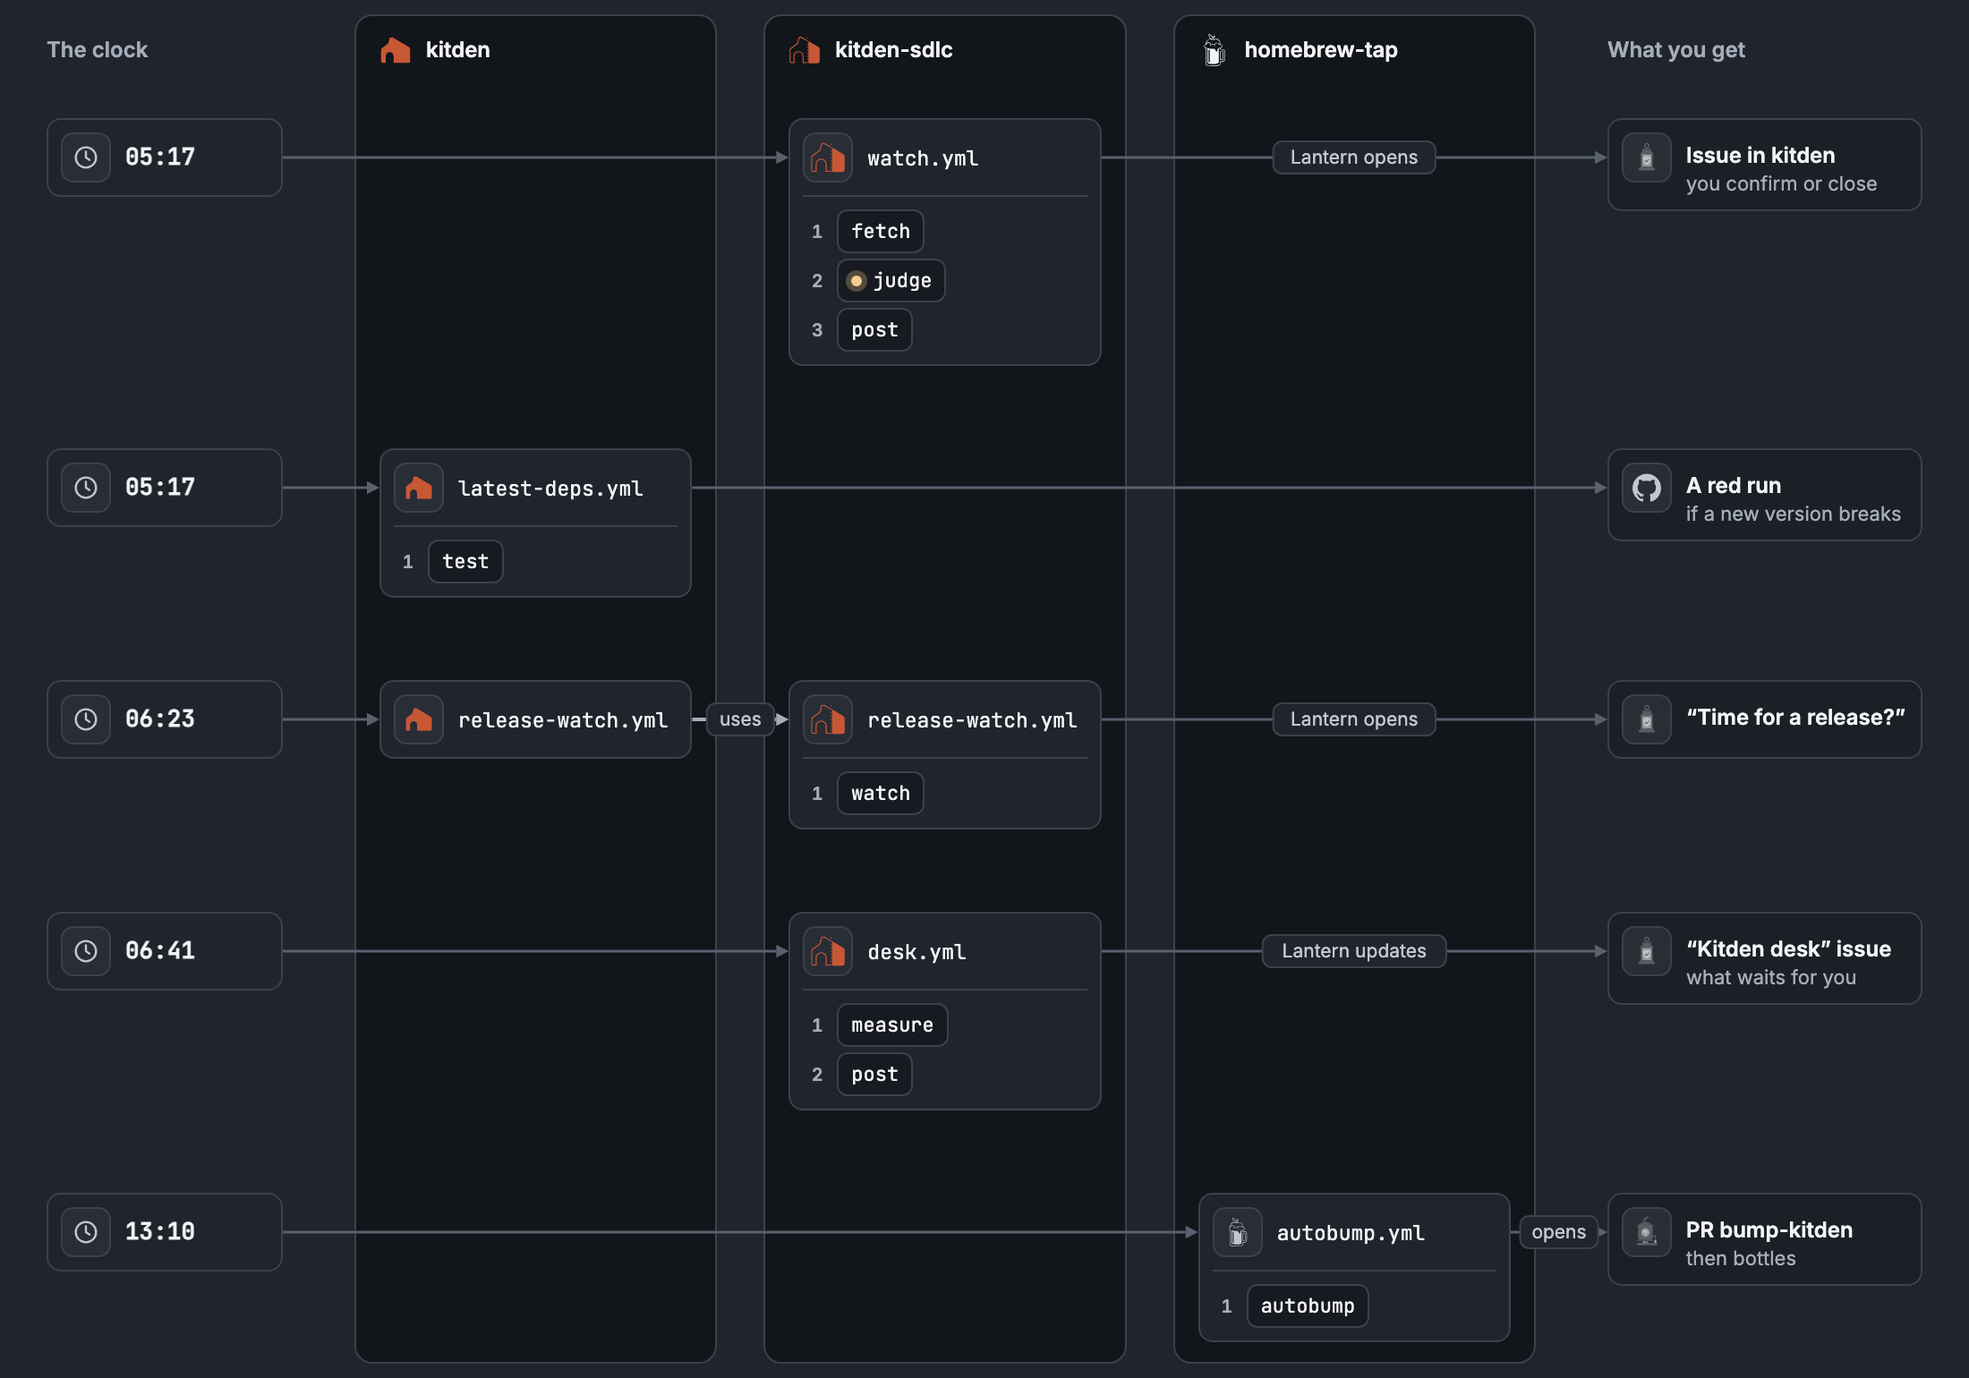
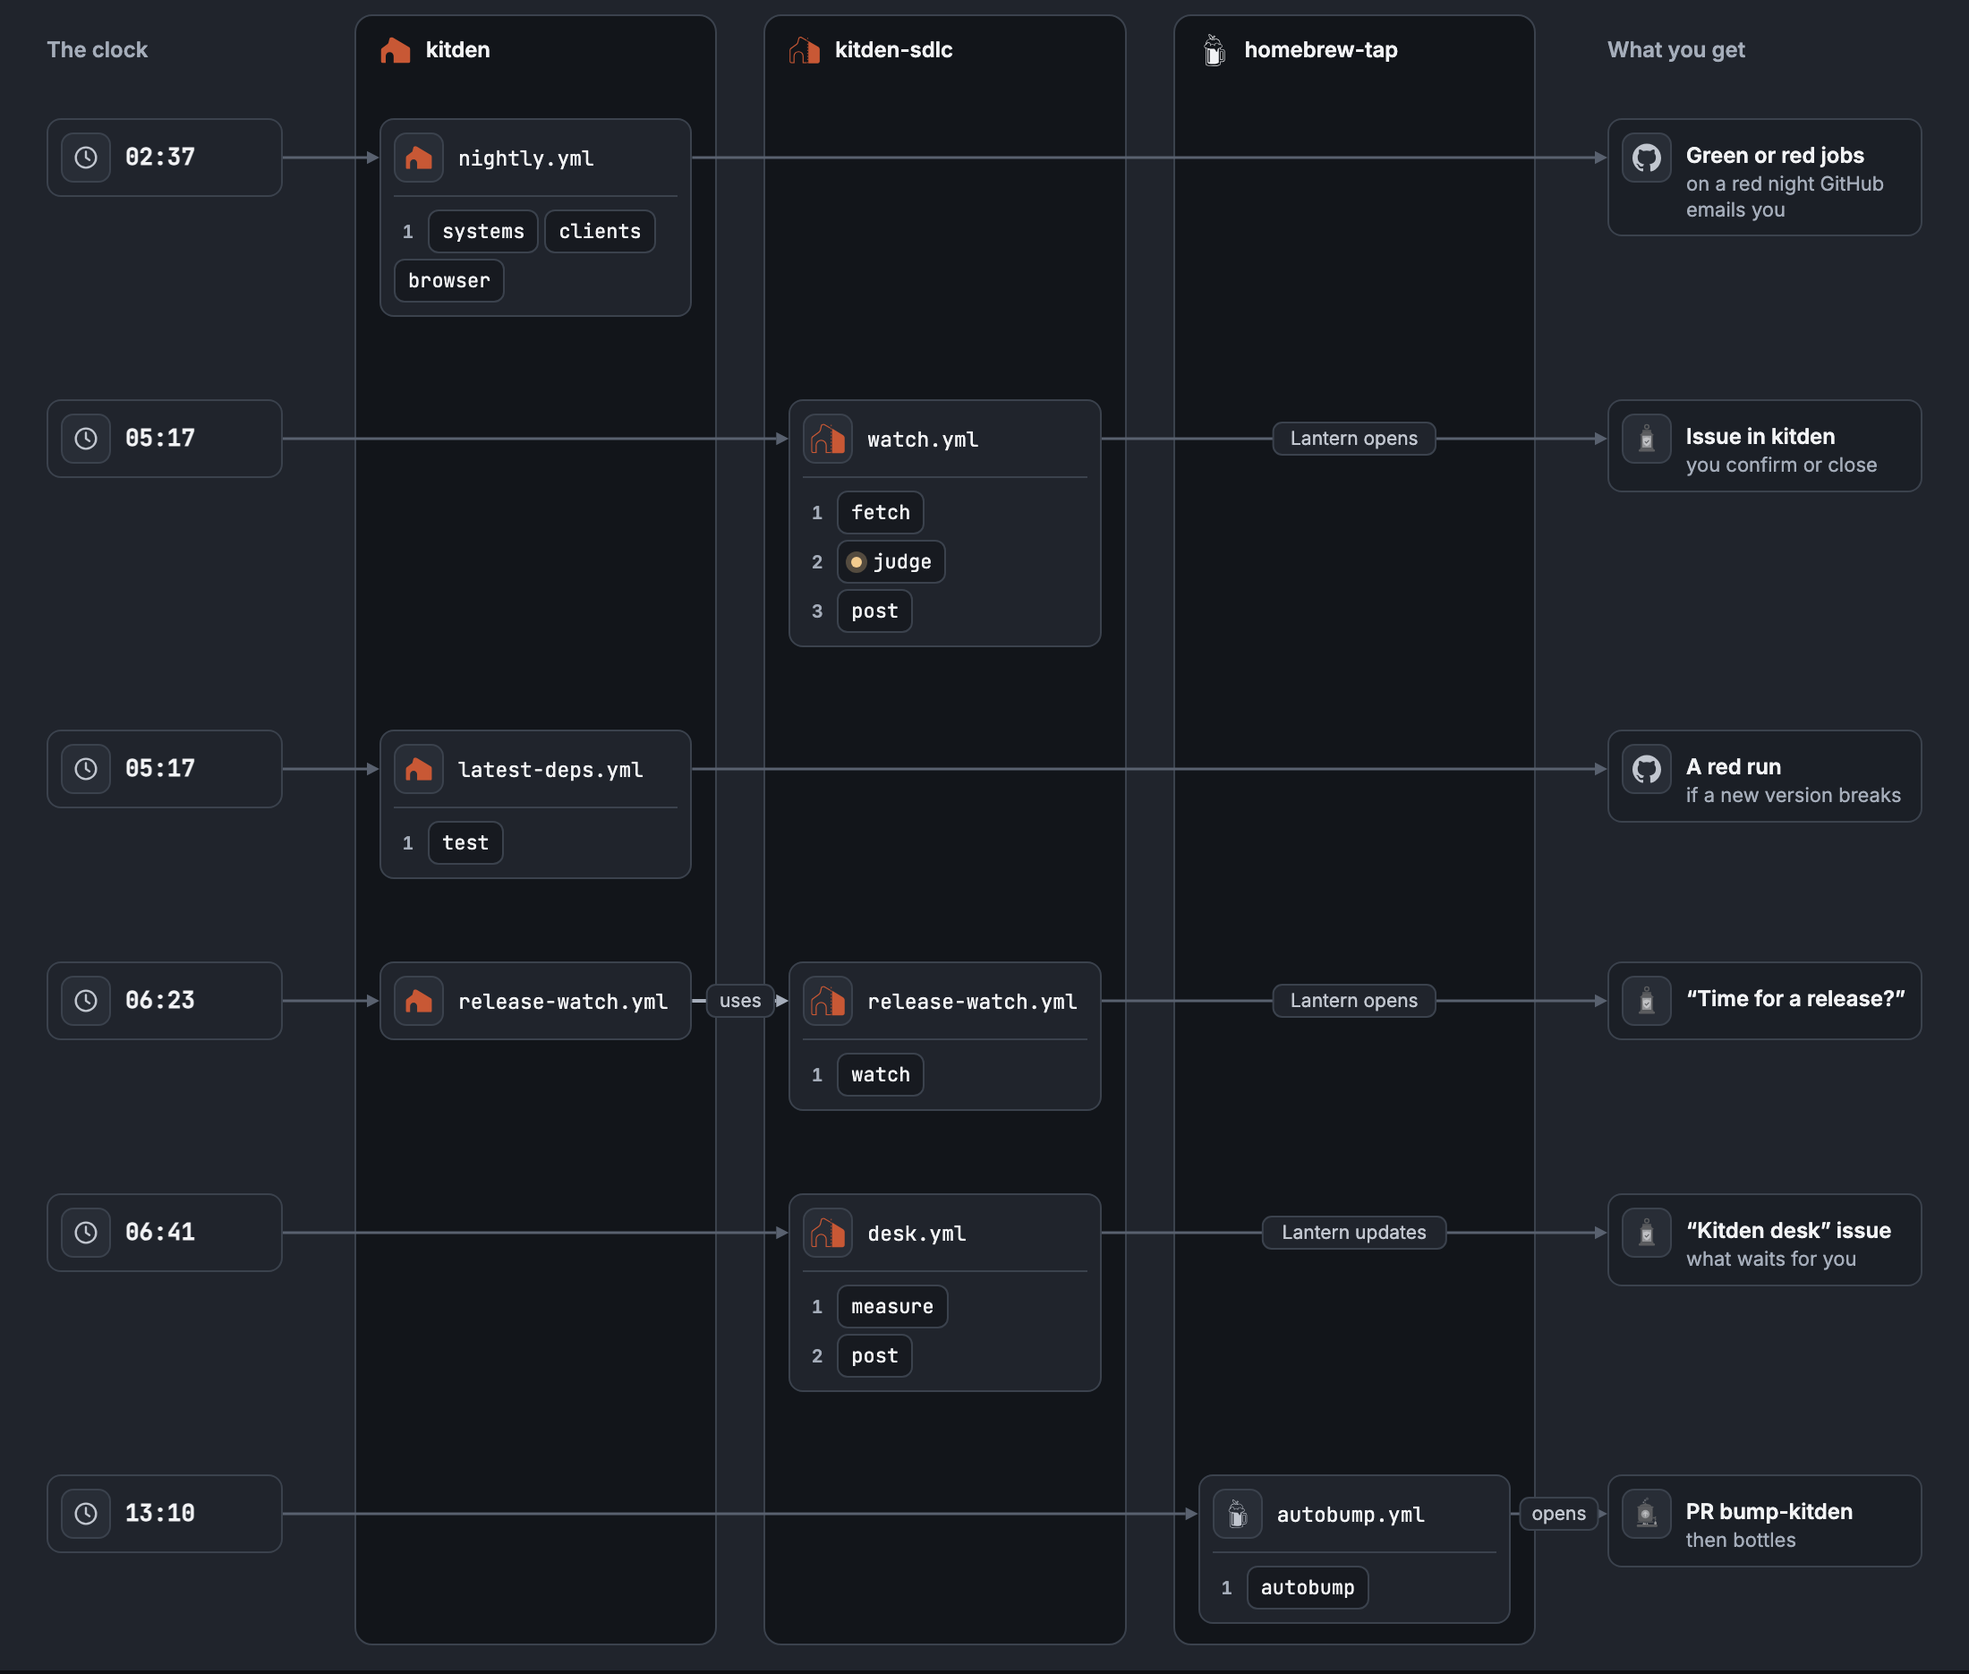
Show the nightly tests on the map

diff --git a/docs/map/index.html b/docs/map/index.html
@@ -400,6 +400,8 @@ const REPO = {
   t:{name:'homebrew-tap', url:'https://github.com/konstantinstarovoytov/homebrew-tap'}
 };
 const SONNET = 'Claude Sonnet 5.5';
+/* Links between workflows, each with its other end: calls and calledBy when one uses the other,
+   reads and readBy when one reads the other's runs without calling it. */
 const WF = [
  {id:'k-release', r:'k', file:'release.yml', kind:'own + call',
   trigger:'Push to `main`, a `v*` tag, any pull request',
@@ -444,11 +446,12 @@ const WF = [
   trigger:'Every night, 02:37 UTC',
   stages:[['systems','clients','browser']],
   jobs:[
-   {n:'systems', tags:['4 systems','Python 3.13 + 3.14'], when:'always',
-    steps:['Install','Tests: `pytest`','Real keyring (Ubuntu), real Keychain (macOS)','Page tests in Node','Start-up speed','Tests set aside']},
-   {n:'clients', tags:['macOS + Ubuntu','no account'], when:'always',
-    steps:['Install the newest Claude Code and Codex','Contract tests','On a red night: keep the files they wrote']},
-   {n:'browser', tags:['Ubuntu'], when:'always', steps:['Install Chromium','Browser tests in Playwright']}
+   {n:'systems', tags:['macOS ARM + Intel','Ubuntu x64 + ARM','Python 3.13 + 3.14','no secret'], when:'always: 8 runs, one per system and Python',
+    steps:['Install, on the Python of this run','Tests: `pytest`','The real keyring (Ubuntu)','The real Keychain (macOS)','Page tests in Node','Start-up within its time budgets: twice the budgets on the Intel Mac','Tests set aside: never red']},
+   {n:'clients', tags:['macOS + Ubuntu','no account','no secret'], when:'always',
+    steps:['Install','No account on the runner','Install the newest Claude Code and Codex','Which versions','Contract tests against them','On a red night: keep the files the clients wrote']},
+   {n:'browser', tags:['Ubuntu','Playwright','no secret'], when:'always',
+    steps:['Install','Install Chromium with Playwright','Browser tests: the page on the demo sample, in Chromium']}
   ]},
  {id:'k-scenes', r:'k', file:'scenes.yml', kind:'own',
   trigger:'A pull request that changes `src/kitden`',
@@ -641,15 +644,16 @@ const STORIES = {
       ['pr','merge','waits for you','z'],['merge','rel1','push','h'],['rel1','tag','Beacon tags','h'],
       ['tag','rel2','the tag starts it again','z'],['rel2','s-publish','uses','h'],['s-publish','bump','opens','h'],
       ['bump','t-tests','starts','z'],['t-tests','t-auto-pull','tests pass','z'],['t-auto-pull','t-publish','starts','z'],['t-publish','brew','','h']]},
-  day:{note:'Times are UTC. Nothing here needs you until an issue or a PR shows up.',
+  day:{note:'Times are UTC. Nothing here needs you until an issue, a pull request or a red run shows up.',
     rows:[
+      [{id:'c0', kind:'clock', t:'02:37'}, {wf:'k-nightly'}, {id:'d0', kind:'thing', ic:'github', t:'Green or red jobs', sub:'on a red night GitHub emails you'}],
       [{id:'c1', kind:'clock', t:'05:17'}, {wf:'s-watch', stages:[['fetch'],['judge'],['post']]}, {id:'d1', kind:'thing', ic:'lantern', t:'Issue in kitden', sub:'you confirm or close'}],
       [{id:'c2', kind:'clock', t:'05:17'}, {wf:'k-latest-deps'}, {id:'d2', kind:'thing', ic:'github', t:'A red run', sub:'if a new version breaks'}],
       [{id:'c3', kind:'clock', t:'06:23'}, {wf:'k-release-watch'}, {wf:'s-release-watch'}, {id:'d3', kind:'thing', ic:'lantern', t:'“Time for a release?”', go:'rel'}],
       [{id:'c4', kind:'clock', t:'06:41'}, {wf:'s-desk'}, {id:'d4', kind:'thing', ic:'lantern', t:'“Kitden desk” issue', sub:'what waits for you'}],
       [{id:'c5', kind:'clock', t:'13:10'}, {wf:'t-autobump'}, {id:'d5', kind:'thing', ic:'kettle', t:'PR bump-kitden', sub:'then bottles', go:'rel'}]
     ],
-    edges:[['c1','s-watch','','h'],['s-watch','d1','Lantern opens','h'],['c2','k-latest-deps','','h'],['k-latest-deps','d2','','h'],
+    edges:[['c0','k-nightly','','h'],['k-nightly','d0','','h'],['c1','s-watch','','h'],['s-watch','d1','Lantern opens','h'],['c2','k-latest-deps','','h'],['k-latest-deps','d2','','h'],
       ['c3','k-release-watch','','h'],['k-release-watch','s-release-watch','uses','h'],['s-release-watch','d3','Lantern opens','h'],
       ['c4','s-desk','','h'],['s-desk','d4','Lantern updates','h'],['c5','t-autobump','','h'],['t-autobump','d5','opens','h']]}
 };
@@ -761,14 +765,14 @@ if (window.ResizeObserver) new ResizeObserver(() => draw()).observe(flow);
 if (document.fonts && document.fonts.ready) document.fonts.ready.then(() => draw());
 
 /* ================= workflows ================= */
-const TAGIC = {Lantern:'lantern', Beacon:'beacon', Kettle:'kettle', 'calls kitden-sdlc':'githubactions', 'env: pypi':'pypi'};
+const TAGIC = {Lantern:'lantern', Beacon:'beacon', Kettle:'kettle', 'calls kitden-sdlc':'githubactions', 'env: pypi':'pypi', Playwright:'playwright'};
 function tag(t){
   if (t.startsWith('model:')) { const n = t.slice(6); return '<span class="chip">' + ico(n.startsWith('Claude') ? 'claude' : n.startsWith('GPT') ? 'openai' : 'you', 12) + esc(n) + '<i class="lamp model"></i></span>'; }
   if (t === 'harden') return '<span class="chip">' + ico('stepsecurity', 12) + 'Harden-Runner</span>';
   if (t === 'langfuse') return '<span class="chip">' + ico('langfuse', 12) + 'Langfuse</span>';
   return '<span class="chip">' + (TAGIC[t] ? ico(TAGIC[t], 12) : '') + esc(t) + '</span>';
 }
-const STEPIC = [[/Record hosts/,'stepsecurity'],[/Lantern/,'lantern'],[/Beacon/,'beacon'],[/Kettle/,'kettle'],[/Luna|no network/,'openai'],[/Claude|Model judges|no shell/,'claude'],
+const STEPIC = [[/Record hosts/,'stepsecurity'],[/Lantern/,'lantern'],[/Beacon/,'beacon'],[/Kettle/,'kettle'],[/Luna|no network/,'openai'],[/Claude|Model judges|no shell/,'claude'],[/Playwright|Chromium|Browser tests/,'playwright'],
   [/ruff/,'ruff'],[/zizmor/,'zizmor'],[/actionlint/,'lint'],[/pytest|[Tt]ests/,'pytest'],[/pyright/,'python'],[/PyPI|pip-audit/,'pypi'],[/MCP|server\.json/,'modelcontextprotocol'],
   [/brew|formula|bottle|the tap/,'homebrew'],[/Node/,'nodedotjs'],[/scene|picture/,'playwright'],[/uv sync|Install|package/,'uv'],[/Call /,'githubactions'],
   [/GitHub|pull request|PR|issue|comment|tag|branch|Commit|Push|`main`|diff/,'github'],[/Rule checker|secret/,'shield']];
@@ -790,7 +794,9 @@ function select(id){
   const jobBy = Object.fromEntries(w.jobs.map(j => [j.n, j]));
   const facts = '<div class="fact"><span class="cap">Starts when</span><span>' + fmt(w.trigger) + '</span></div>' +
     (w.calls ? '<div class="fact"><span class="cap">Calls</span><span>' + w.calls.map(ref).join(', ') + '</span></div>' : '') +
-    (w.calledBy ? '<div class="fact"><span class="cap">Called by</span><span>' + w.calledBy.map(ref).join(', ') + '</span></div>' : '');
+    (w.calledBy ? '<div class="fact"><span class="cap">Called by</span><span>' + w.calledBy.map(ref).join(', ') + '</span></div>' : '') +
+    (w.reads ? '<div class="fact"><span class="cap">Reads</span><span>' + w.reads.map(ref).join(', ') + '</span></div>' : '') +
+    (w.readBy ? '<div class="fact"><span class="cap">Read by</span><span>' + w.readBy.map(ref).join(', ') + '</span></div>' : '');
   $('detail').innerHTML = '<div class="top">' + repoChip(w.r) + '<span class="chip">' + esc(w.kind) + '</span>' + (w.model ? '<span class="chip"><i class="lamp model"></i>model</span>' : '') +
     '<a href="' + fileUrl(w) + '" style="margin-left:auto;font-size:12px">File</a><a href="' + runsUrl(w) + '" style="font-size:12px">Runs</a></div>' +
     '<h2>' + esc(w.file) + ' <span>· ' + esc(w.name) + '</span></h2>' +
@@ -821,7 +827,7 @@ const TOOLS = [
   ['Yours', [['kitden','Kitden','the product'],['sdlc','kitden-sdlc','the automation'],['lantern','Lantern','comments and issues'],['beacon','Beacon','releases'],['kettle','Kettle','the Homebrew tap']]],
   ['Models', [['claude','Claude Sonnet 5.5','review, watcher, release'],['openai','GPT-6 Luna','second reviewer']]],
   ['Checks', [['ruff','ruff','lint'],['python','pyright','types'],['pytest','pytest','tests'],['nodedotjs','Node','page tests'],['zizmor','zizmor','workflow security'],['lint','actionlint','workflow mistakes'],['pypi','pip-audit','known vulnerabilities']]],
-  ['Build and ship', [['githubactions','GitHub Actions','runs it all'],['uv','uv','install and build'],['python','Python','the code'],['pypi','PyPI','the package'],['github','GitHub Releases','files and notes'],['modelcontextprotocol','MCP Registry','the server list'],['homebrew','Homebrew','brew install'],['playwright','Playwright','README pictures'],['ffmpeg','ffmpeg','README pictures']]],
+  ['Build and ship', [['githubactions','GitHub Actions','runs it all'],['uv','uv','install and build'],['python','Python','the code'],['pypi','PyPI','the package'],['github','GitHub Releases','files and notes'],['modelcontextprotocol','MCP Registry','the server list'],['homebrew','Homebrew','brew install'],['playwright','Playwright','README pictures, browser tests'],['ffmpeg','ffmpeg','README pictures']]],
   ['Guards', [['stepsecurity','Harden-Runner','records hosts'],['langfuse','Langfuse','model traces']]],
   ['Clients watched', [['claude','Claude Code','by Anthropic'],['openai','Codex','by OpenAI'],['cursor','Cursor','by Anysphere']]]
 ];
@@ -835,7 +841,7 @@ const USED = {
   'PyPI':['k-release','s-publish','t-autobump'], 'GitHub Releases':['k-release'], 'MCP Registry':['s-publish'],
   'Homebrew':['s-publish','t-autobump','t-tests','t-auto-pull','t-publish'], 'Playwright':['k-scenes','k-nightly','s-release-prep'], 'ffmpeg':['k-scenes','s-release-prep'],
   'Harden-Runner':['s-review','s-watch','s-release-prep','s-list-check'], 'Langfuse':['s-watch'],
-  'Claude Code':['s-watch'], 'Codex':['s-watch'], 'Cursor':['s-watch']
+  'Claude Code':['s-watch','k-nightly'], 'Codex':['s-watch','k-nightly'], 'Cursor':['s-watch']
 };
 const usedIn = n => { const u = USED[n]; return '<span class="tip" role="tooltip"><span class="cap">Used in</span>' + (typeof u === 'string' ? '<span class="tl1">' + esc(u) + '</span>'
   : u.map(id => '<button type="button" class="tl1" data-id="' + id + '">' + ico(RLOGO[byId[id].r], 13) + esc(byId[id].file) + '</button>').join('')) + '</span>'; };
@@ -852,7 +858,9 @@ window.addEventListener('hashchange', fromHash);
 /* ?shot=pr|rel|day&theme=light|dark shows one story alone, for the README pictures. */
 const ask = new URLSearchParams(location.search);
 if (ask.get('theme')) document.documentElement.dataset.theme = ask.get('theme');
-select('s-review'); setHash(''); story(STORIES[ask.get('shot')] ? ask.get('shot') : 'pr'); view('map'); fromHash();
+/* A link such as #k-nightly opens that workflow: keep the hash that select() overwrites. */
+const first = location.hash.slice(1);
+select('s-review'); setHash(first); story(STORIES[ask.get('shot')] ? ask.get('shot') : 'pr'); view('map'); fromHash();
 if (STORIES[ask.get('shot')]) document.body.classList.add('shot');
 </script>
 </body>

diff --git a/tests/test_map_text.py b/tests/test_map_text.py
@@ -5,7 +5,15 @@ from pathlib import Path
 import yaml
 
 import map_text
-from map_text import differences, header, map_ids, map_jobs, read_block, write_block
+from map_text import (
+    differences,
+    header,
+    map_ids,
+    map_jobs,
+    map_links,
+    read_block,
+    write_block,
+)
 
 ROOT = Path(__file__).resolve().parent.parent
 HTML = (ROOT / "docs/map/index.html").read_text()
@@ -158,3 +166,42 @@ def test_what_keeps_its_second_paragraph_and_why_stops_at_a_tool_directive():
     assert header(text) == {"name": "A b", "what": "one. Two.", "why": "because."}
     assert header("# What: a\n# zizmor, actionlint.\n# Why: b.\nname: A b\n")["what"] == (
         "a zizmor, actionlint.")
+
+
+# Task 16: the nightly run on the map. The desk does not read the nightly runs yet (S1 is not
+# built), so the map shows no `reads` link today; the tests below say so.
+
+def test_the_nightly_run_is_on_the_map_with_its_jobs_and_no_link_yet():
+    assert map_ids(HTML)["k-nightly"] == ("k", "nightly.yml")
+    assert map_jobs(HTML)["k-nightly"] == ["systems", "clients", "browser"]
+    links = map_links(HTML)
+    assert links["k-nightly"] == {} and "reads" not in links["s-desk"]
+    assert links["s-review"] == {"calledBy": ["k-agents-review"]}
+    assert "All 22 workflows" in HTML
+
+
+def test_every_link_names_a_workflow_on_the_map_and_has_its_other_end():
+    links, ids = map_links(HTML), map_ids(HTML)
+    back = {"calls": "calledBy", "calledBy": "calls", "reads": "readBy", "readBy": "reads"}
+    assert any(links.values())
+    for wf_id, kinds in links.items():
+        for kind, others in kinds.items():
+            for other in others:
+                assert other in ids, (wf_id, kind, other)
+                assert wf_id in links[other].get(back[kind], []), (wf_id, kind, other)
+
+
+def test_a_reads_link_is_read_and_the_page_shows_it():
+    page = HTML.replace("{id:'s-desk', r:'s', file:'desk.yml', kind:'own',",
+                        "{id:'s-desk', r:'s', file:'desk.yml', kind:'own', reads:['k-nightly'],")
+    assert map_links(page)["s-desk"] == {"reads": ["k-nightly"]}
+    assert "'<span class=\"cap\">Reads</span>" not in HTML  # built from w.reads, not written
+    assert "w.reads ?" in HTML and "w.readBy ?" in HTML
+
+
+def test_the_every_day_story_draws_the_nightly_run():
+    day = HTML.split("day:{")[1].split("\n};")[0]
+    assert "{id:'c0', kind:'clock', t:'02:37'}, {wf:'k-nightly'}" in day
+    assert "t:'Green or red jobs'" in day
+    assert "['c0','k-nightly','','h'],['k-nightly','d0','','h']" in day
+    assert "the desk reads it" not in day

diff --git a/scripts/map_text.py b/scripts/map_text.py
@@ -36,6 +36,8 @@ BLOCK = re.compile(r'(<script type="application/json" id="wf-text">\n)(.*?)(\n</
 WF_LIST = re.compile(r"\nconst WF = \[\n(.*?)\n\];", re.S)
 ENTRY = re.compile(r"\{id:'([\w-]+)', r:'(\w)', file:'([\w.-]+)'")
 JOB = re.compile(r"\{n:'([\w-]+)'")
+LINK = re.compile(r"\b(calls|calledBy|reads|readBy):\[([^\]]*)\]")
+LINKED = re.compile(r"'([\w-]+)'")
 DIRECTIVE = re.compile(r"#\s*(?:(?:zizmor|actionlint)\s*:|(?:yamllint|shellcheck)\s+disable)")
 REPO = re.compile(r"(\w):\{name:'([\w.-]+)', url:'https://github\.com/([\w.-]+/[\w.-]+)'\}")
 
@@ -108,6 +110,15 @@ def map_ids(html: str) -> dict[str, tuple[str, str]]:
 def map_jobs(html: str) -> dict[str, list[str]]:
     """Each id of `WF`, with the names of the jobs the map lists for it."""
     return {wf_id: JOB.findall(source) for wf_id, _, _, source in _entries(html)}
+
+
+def map_links(html: str) -> dict[str, dict[str, list[str]]]:
+    """Each id of `WF`, with those of its links `calls`, `calledBy`, `reads` and `readBy` it has.
+
+    `calls` and `calledBy`: one workflow uses the other. `reads` and `readBy`: one reads the
+    other's runs without calling it."""
+    return {wf_id: {kind: LINKED.findall(others) for kind, others in LINK.findall(source)}
+            for wf_id, _, _, source in _entries(html)}
 
 
 def repos(html: str) -> dict[str, tuple[str, str]]:

diff --git a/README.md b/README.md
@@ -47,7 +47,7 @@ next thing starts; a dot on a job means a model runs in it.
 
 <picture>
   <source media="(prefers-color-scheme: dark)" srcset="docs/images/map-every-day-dark.png">
-  <img src="docs/images/map-every-day-light.png" width="820" alt="By the clock, in UTC. 05:17: watch.yml reads what Claude Code, Codex and Cursor changed, and Lantern opens an issue in Kitden. 05:17: latest-deps.yml tests Kitden on the newest dependencies. 06:23: release-watch.yml in Kitden uses release-watch.yml in kitden-sdlc, and Lantern opens Time for a release. 06:41: desk.yml updates the Kitden desk issue. 13:10: autobump.yml in the tap opens a pull request for a new version.">
+  <img src="docs/images/map-every-day-light.png" width="820" alt="By the clock, in UTC. 02:37: nightly.yml in Kitden runs the tests on four systems and two Pythons, against the newest Claude Code and Codex, and in a real browser; on a red night GitHub emails you. 05:17: watch.yml reads what Claude Code, Codex and Cursor changed, and Lantern opens an issue in Kitden. 05:17: latest-deps.yml tests Kitden on the newest dependencies. 06:23: release-watch.yml in Kitden uses release-watch.yml in kitden-sdlc, and Lantern opens Time for a release. 06:41: desk.yml updates the Kitden desk issue. 13:10: autobump.yml in the tap opens a pull request for a new version.">
 </picture>
 
 ## The bots
